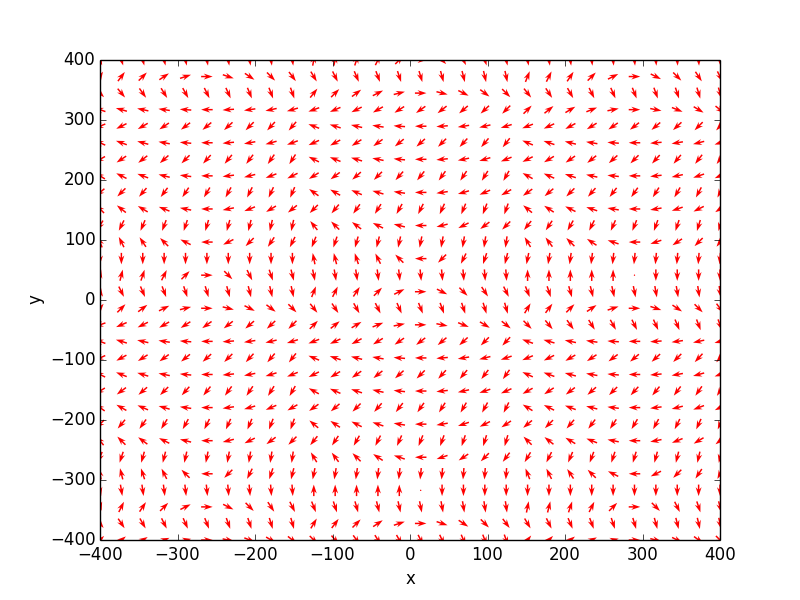
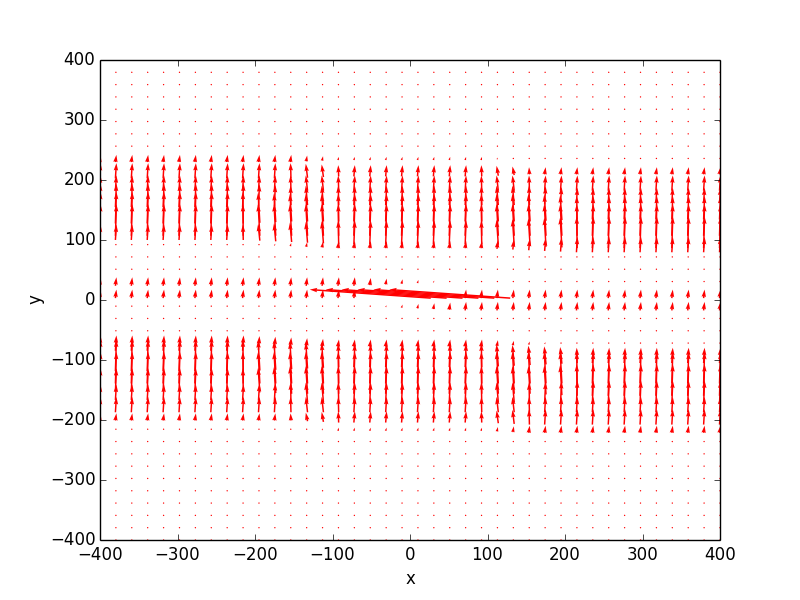
tangential and repulsive visualization methods

Changed region(s): [[0.125, 0.12, 0.9062, 0.9]]

diff --git a/agent0.py b/agent0.py
@@ -148,6 +148,72 @@ class Agent(object):
         else:  # distance > spread+radius
             self.dx = alpha * spread * math.cos(self.angle)
             self.dy = alpha * spread * math.sin(self.angle)
+
+    def repulsiveVisual(self, x, y):
+
+        if x != -1 and y != -1:
+            self.currentTank.x = x
+            self.currentTank.y = y
+        radius = 3;
+        spread = 10;
+        beta = 10;
+        
+        if self.currentTank.flag != '-': 
+            return
+        
+        for tank in self.mytanks:
+            if tank is self.currentTank:
+                continue
+            
+            distance = math.sqrt(math.pow(tank.x - x, 2) + math.pow(y - tank.y, 2))
+            angle = self.normalize_angle(math.atan2(tank.y - y, tank.x - x))
+            
+            if distance < radius:
+                doX = math.copysign(1, math.cos(angle)) * -9001
+                doY = math.copysign(1, math.sin(angle)) * -9001
+            elif radius <= distance and distance <= (spread + radius):
+                doX = -beta * (spread + radius - distance) * math.cos(angle)
+                doY = -beta * (spread + radius - distance) * math.sin(angle)    
+            else: 
+                doX = 0;
+                doY = 0;
+                
+            self.dx = self.dx + doX
+            self.dy = self.dy + doY
+
+    def tangentialVisual(self, x, y):
+
+        if x != -1 and y != -1:
+            self.currentTank.x = x
+            self.currentTank.y = y
+        radius = 1;
+        spread = 10;
+        beta2 = 100;
+        for obstacle in self.obstacles:
+            for i in range(0, 4):
+                start = obstacle[i]
+                if i == 3: end = obstacle[0]
+                else: end = obstacle[i + 1]
+                
+                point = [x, y]
+            
+                distance = self.distanceToLine(start, end, point)
+                angle = (math.atan2(end[0] - start[0], -(end[1] - start[1])) ) - math.pi / 2
+            
+                if distance < radius:
+                    
+                    doX = math.cos(angle) * 9001
+                    doY = math.sin(angle) * 9001
+                
+                elif radius <= distance and distance <= (spread + radius):
+                    doX = beta2 * (spread + radius - distance) * math.cos(angle)
+                    doY = beta2 * (spread + radius - distance) * math.sin(angle)    
+                else:  
+                    doX = 0;
+                    doY = 0;
+                
+                self.dx = self.dx + doX
+                self.dy = self.dy + doY              
         
     def repulsiveFields(self, x=-1, y=-1):
         if x != -1 and y != -1:
@@ -247,7 +313,7 @@ class Agent(object):
         return angle
 
     def visualization(self):
-        '''pick every tenth point to build a potential field'''
+        '''pick every point to build a potential field'''
         
         # generate grid
         x=np.linspace(-400, 400, 40)
@@ -263,7 +329,7 @@ class Agent(object):
         for a in xrange(-400, 400,20):
             j = 0;
             for b in xrange(-400, 400,20):
-                self.attractiveVisualizationField(a, b)
+                self.tangentialVisual(a, b)
                 MatrixX[i][j] = self.dx
                 MatrixY[i][j] = self.dy
                 j = j+1
@@ -273,7 +339,7 @@ class Agent(object):
         ax = fig.add_subplot(111)
 
         # plot vecor field
-        ax.quiver(x, y, MatrixX, MatrixY, pivot='middle', color='r', headwidth=4, headlength=6)
+        ax.quiver(x, y, MatrixX, MatrixY, pivot='middle', color='r')
         ax.set_xlabel('x')
         ax.set_ylabel('y')
         plt.savefig('visualization_quiver_demo.png')
